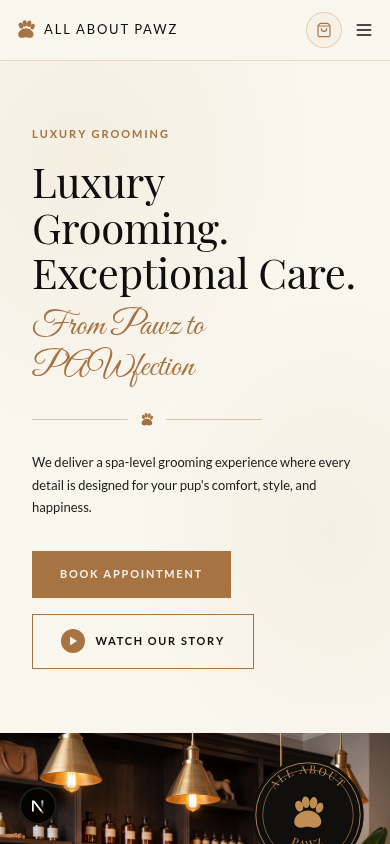
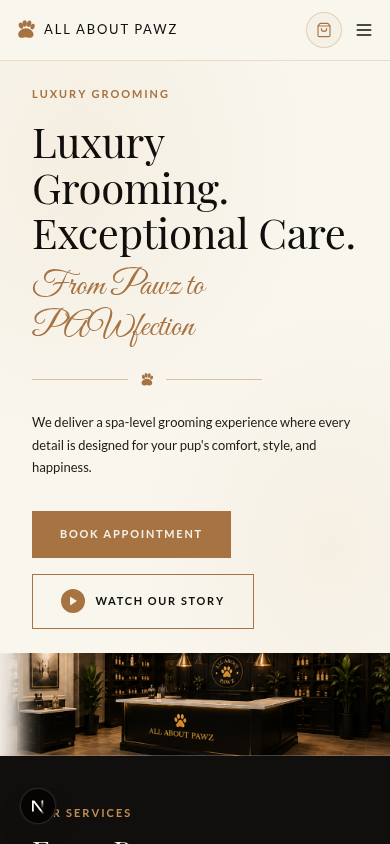
a9fb28e7-ebb3-4680-84a8-03c6a1e5a8eb

diff --git a/src/app/(site)/page.tsx b/src/app/(site)/page.tsx
@@ -1,6 +1,6 @@
 import Link from "next/link"
 import { Play, CalendarDays, Heart, Star, CheckCircle2, Mail, Scissors } from "lucide-react"
-import { PawBadge, PawGlyph, Divider } from "@/components/site/brand"
+import { PawGlyph, Divider } from "@/components/site/brand"
 import { TopUtilityBar } from "@/components/site/site-chrome"
 import { getIcon } from "@/lib/icons"
 import { getSiteContent } from "@/lib/site-data"
@@ -26,9 +26,11 @@ export default async function HomePage() {
           it has no PageHeader. */}
       <TopUtilityBar />
 
-      {/* HERO — natural height (the reference hero) */}
-      <section className="grid grid-cols-1 lg:grid-cols-[1fr_0.92fr]">
-        <div className="marble flex flex-col justify-center bg-cream px-8 py-16 lg:px-14 lg:py-20">
+      {/* HERO — reference layout: text block 50% width on the left,
+          image 50% on the right spanning the full section height from the
+          very top (no crop, no container, natural aspect). */}
+      <section className="grid grid-cols-1 lg:grid-cols-2">
+        <div className="marble bg-cream px-8 pt-6 lg:pl-14 lg:pr-8 lg:pt-8">
           <p className="eyebrow">LUXURY GROOMING</p>
           <h1 className="mt-4 whitespace-pre-line font-display text-[42px] leading-[1.08] text-ink lg:text-[52px]">
             {s.heroTitle || "Luxury Grooming.\nExceptional Care."}
@@ -48,10 +50,7 @@ export default async function HomePage() {
             </Link>
           </div>
         </div>
-        <div className="relative min-h-[380px]">
-          <img src="/Home/home%20herojpeg.jpeg" alt="Groomed poodle standing proudly inside the All About Pawz luxury salon" width={2400} height={1792} className="absolute inset-0 h-full w-full object-cover" />
-          <div className="absolute right-6 top-6 lg:right-10 lg:top-8"><PawBadge size={116} /></div>
-        </div>
+        <img src="/Home/home-hero-poodle.png" alt="Light-colored poodle standing inside the All About Pawz grooming salon" width={1448} height={1086} className="block h-auto w-full" />
       </section>
 
       {/* SERVICES BAND */}
@@ -80,9 +79,10 @@ export default async function HomePage() {
         </div>
       </section>
 
-      {/* PAWZITIVE DIFFERENCE — restored 2-column layout */}
-      <section className="grid grid-cols-1 lg:grid-cols-[1fr_1.25fr]">
-        <div className="marble flex flex-col justify-center bg-cream px-8 py-14 lg:px-12">
+      {/* PAWZITIVE DIFFERENCE — text left, banner right IN LINE with the
+          text (vertically centered beside it), not stacked below */}
+      <section className="marble grid grid-cols-1 items-center gap-8 bg-cream px-8 py-14 lg:grid-cols-2 lg:px-12">
+        <div>
           <p className="eyebrow">MORE THAN GROOMING</p>
           <h2 className="mt-3 font-display text-[30px] leading-[1.15] text-ink">It&apos;s the Pawzitive Difference.</h2>
           <p className="mt-4 max-w-[400px] text-[12.5px] leading-[1.8] text-ink-soft">
@@ -98,11 +98,7 @@ export default async function HomePage() {
             </>
           )}
         </div>
-        <div className="relative min-h-[300px]">
-          <img src="/assets/salon-interior.jpg" alt="Interior of the All About Pawz luxury grooming salon" width={1280} height={900} className="absolute inset-0 h-full w-full object-cover" />
-          <div className="absolute right-8 top-6"><PawBadge size={78} /></div>
-          <div className="absolute bottom-[26%] left-1/2 -translate-x-1/2 font-display text-[20px] tracking-[0.16em] text-gold-light drop-shadow-lg">ALL ABOUT PAWZ</div>
-        </div>
+        <img src="/Home/home-3rd-banner.png" alt="All About Pawz grooming salon interior with reception desk and boutique shelving" width={1018} height={269} className="block h-auto w-full" />
       </section>
 
       {/* CTA BAND */}

diff --git a/src/app/(site)/about/page.tsx b/src/app/(site)/about/page.tsx
@@ -14,11 +14,9 @@ export default async function AboutPage() {
   return (
     <>
       <PageHeader n="02" label="ABOUT US" />
-      {/* Hero — headline at the top, image at its natural size (no crop, no
-          container) flowing right up against the headline. Image is a direct
-          grid child: block display kills the inline-img gap under it, and the
-          image's own height defines the section — no extra space. */}
-      <section className="grid grid-cols-1 lg:grid-cols-[1fr_0.92fr]">
+      {/* Hero — reference layout: text 50% left, image 50% right, full height
+          from the top, natural aspect, no crop, no container. */}
+      <section className="grid grid-cols-1 lg:grid-cols-2">
         <div className="marble bg-cream px-8 pt-4 lg:pl-14 lg:pr-8 lg:pt-6">
           <h1 className="font-display text-[48px] leading-[1.05] text-ink lg:text-[60px]">Our Story.<br />Our Promise.</h1>
           <p className="script mt-2 text-[32px]">Built on love. Driven by purpose.</p>

diff --git a/worklog.md b/worklog.md
@@ -406,3 +406,21 @@ Stage Summary:
 - About hero = user's newest upload, uncropped, cache-busted filename, flush to headline
 - Band under hero: black; Our Mission column: brown (--color-brown #533520 token added to theme)
 - Lesson: in this Tailwind 4 setup, custom brand colors for utilities must use literal values in @theme inline, not var() indirection through :root
+
+---
+Task ID: 7
+Agent: main agent (direct work, per standing rule)
+Task: Homepage — swap hero/3rd-section images to correct spots, then apply reference hero layout (50/50 split) and put 3rd-section banner in line with the text
+
+Work Log:
+- User correction: the two homepage images had been swapped — dog photo belongs in the hero (hero always had a dog), salon banner belongs in the 3rd section. Renamed public/Home files: home-hero-poodle.png (1448×1086), home-3rd-banner.png (1018×269)
+- Hero: poodle photo right column; rebuilt as reference layout (user's screenshot pasted_image_1788585758523.png, VLM-analyzed: text block ~50% width, image ~50%+ spanning full height from very top) → grid-cols-2, text pt top-aligned, image direct grid child natural aspect
+- 3rd section (Pawzitive Difference): banner was stacked BELOW the text — user wanted it IN LINE with the text → grid-cols-2 items-center: text left, banner right vertically centered beside the text block (banner's baked 'ALL ABOUT PAWZ' sign sits mid-column in line with the text)
+- About hero also set to grid-cols-2 (user: "that's on every page, preserving the original positioning"; they will direct when/where for remaining pages)
+- Verified desktop 1440×900: hero 50/50 with image full-height from top + headline near top; banner beside text, complete, uncropped, balanced; About 50/50; mobile 390×844 captured
+- dev.log all 200s
+
+Stage Summary:
+- Homepage hero: 50/50 split, dog photo right at natural aspect (reference layout)
+- 3rd section: banner in line with the text (side-by-side), no longer below
+- Hero reference pattern (50/50, image full height, text top) established for rollout to other pages on user's direction
